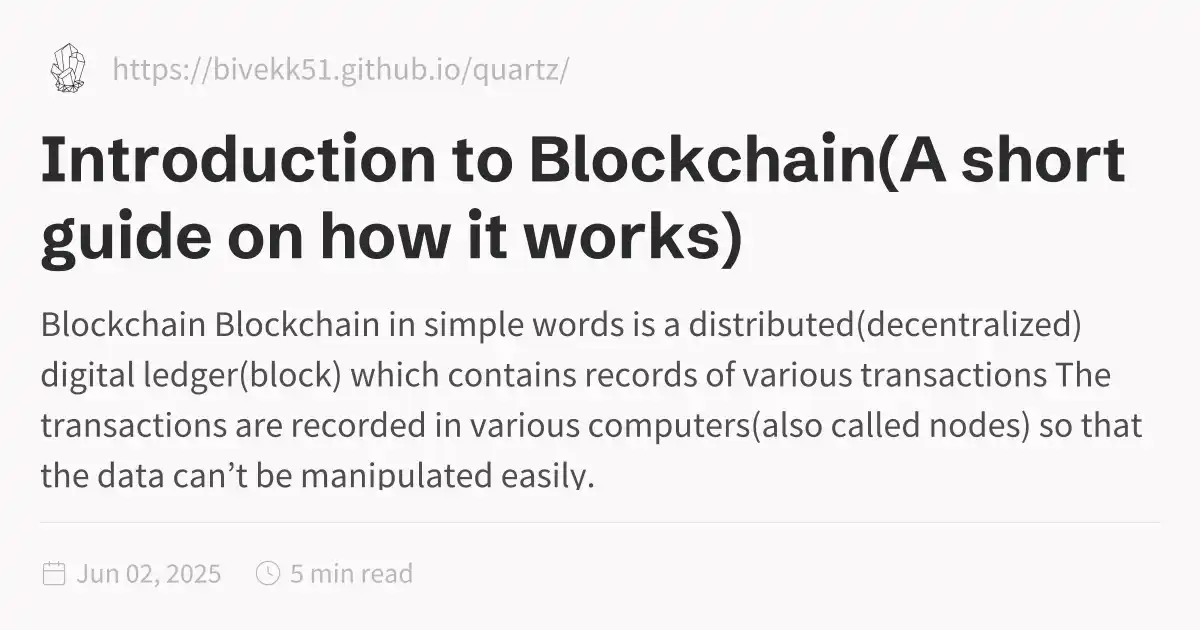
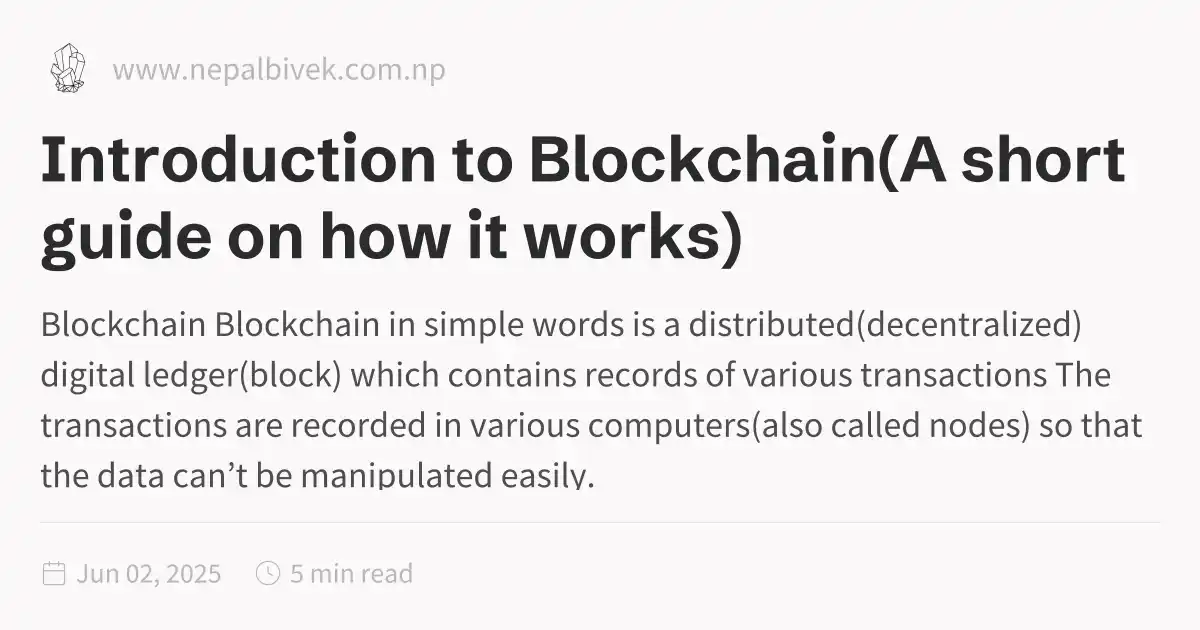
Updates

Changed region(s): [[0.0925, 0.0905, 0.4625, 0.1508]]

diff --git a/Introduction-to-Blockchain(A-short-guide-on-how-it-works).html b/Introduction-to-Blockchain(A-short-guide-on-how-it-works).html
@@ -1,5 +1,5 @@
 <!DOCTYPE html>
-<html lang="en"><head><title>Introduction to Blockchain(A short guide on how it works)</title><meta charset="utf-8"/><link rel="preconnect" href="https://fonts.googleapis.com"/><link rel="preconnect" href="https://fonts.gstatic.com"/><link rel="stylesheet" href="https://fonts.googleapis.com/css2?family=Schibsted Grotesk:wght@400;700&amp;family=Source Sans Pro:ital,wght@0,400;0,600;1,400;1,600&amp;family=IBM Plex Mono:wght@400;600&amp;display=swap"/><link rel="preconnect" href="https://cdnjs.cloudflare.com" crossorigin="anonymous"/><meta name="viewport" content="width=device-width, initial-scale=1.0"/><meta name="og:site_name" content="Bivek Learns"/><meta property="og:title" content="Introduction to Blockchain(A short guide on how it works)"/><meta property="og:type" content="website"/><meta name="twitter:card" content="summary_large_image"/><meta name="twitter:title" content="Introduction to Blockchain(A short guide on how it works)"/><meta name="twitter:description" content="Blockchain Blockchain in simple words is a distributed(decentralized) digital ledger(block) which contains records of various transactions The transactions are recorded in various computers(also called nodes) so that the data can’t be manipulated easily."/><meta property="og:description" content="Blockchain Blockchain in simple words is a distributed(decentralized) digital ledger(block) which contains records of various transactions The transactions are recorded in various computers(also called nodes) so that the data can’t be manipulated easily."/><meta property="og:image:alt" content="Blockchain Blockchain in simple words is a distributed(decentralized) digital ledger(block) which contains records of various transactions The transactions are recorded in various computers(also called nodes) so that the data can’t be manipulated easily."/><meta property="twitter:domain" content="https://bivekk51.github.io/quartz/"/><meta property="og:url" content="https://https//bivekk51.github.io/quartz/Introduction-to-Blockchain(A-short-guide-on-how-it-works)"/><meta property="twitter:url" content="https://https//bivekk51.github.io/quartz/Introduction-to-Blockchain(A-short-guide-on-how-it-works)"/><link rel="icon" href="./static/icon.png"/><meta name="description" content="Blockchain Blockchain in simple words is a distributed(decentralized) digital ledger(block) which contains records of various transactions The transactions are recorded in various computers(also called nodes) so that the data can’t be manipulated easily."/><meta name="generator" content="Quartz"/><link href="./index.css" rel="stylesheet" type="text/css" spa-preserve/><style>.expand-button {
+<html lang="en"><head><title>Introduction to Blockchain(A short guide on how it works)</title><meta charset="utf-8"/><link rel="preconnect" href="https://fonts.googleapis.com"/><link rel="preconnect" href="https://fonts.gstatic.com"/><link rel="stylesheet" href="https://fonts.googleapis.com/css2?family=Schibsted Grotesk:wght@400;700&amp;family=Source Sans Pro:ital,wght@0,400;0,600;1,400;1,600&amp;family=IBM Plex Mono:wght@400;600&amp;display=swap"/><link rel="preconnect" href="https://cdnjs.cloudflare.com" crossorigin="anonymous"/><meta name="viewport" content="width=device-width, initial-scale=1.0"/><meta name="og:site_name" content="Bivek Learns"/><meta property="og:title" content="Introduction to Blockchain(A short guide on how it works)"/><meta property="og:type" content="website"/><meta name="twitter:card" content="summary_large_image"/><meta name="twitter:title" content="Introduction to Blockchain(A short guide on how it works)"/><meta name="twitter:description" content="Blockchain Blockchain in simple words is a distributed(decentralized) digital ledger(block) which contains records of various transactions The transactions are recorded in various computers(also called nodes) so that the data can’t be manipulated easily."/><meta property="og:description" content="Blockchain Blockchain in simple words is a distributed(decentralized) digital ledger(block) which contains records of various transactions The transactions are recorded in various computers(also called nodes) so that the data can’t be manipulated easily."/><meta property="og:image:alt" content="Blockchain Blockchain in simple words is a distributed(decentralized) digital ledger(block) which contains records of various transactions The transactions are recorded in various computers(also called nodes) so that the data can’t be manipulated easily."/><meta property="twitter:domain" content="www.nepalbivek.com.np"/><meta property="og:url" content="https://www.nepalbivek.com.np/Introduction-to-Blockchain(A-short-guide-on-how-it-works)"/><meta property="twitter:url" content="https://www.nepalbivek.com.np/Introduction-to-Blockchain(A-short-guide-on-how-it-works)"/><link rel="icon" href="./static/icon.png"/><meta name="description" content="Blockchain Blockchain in simple words is a distributed(decentralized) digital ledger(block) which contains records of various transactions The transactions are recorded in various computers(also called nodes) so that the data can’t be manipulated easily."/><meta name="generator" content="Quartz"/><link href="./index.css" rel="stylesheet" type="text/css" spa-preserve/><style>.expand-button {
   position: absolute;
   display: flex;
   float: right;
@@ -116,7 +116,7 @@ pre:hover > .expand-button {
   padding: 0 12px;
   font-size: 14px;
 }
[2 lines of base64/hex data omitted]
 <ul>
 <li>Blockchain in simple words is a distributed(decentralized) digital ledger(block) which contains records of various transactions</li>
 <li>The transactions are recorded in various computers(also called nodes) so that the data can’t be manipulated easily.</li>

diff --git a/index.html b/index.html
@@ -1,5 +1,5 @@
 <!DOCTYPE html>
-<html lang="en"><head><title>Welcome to Quartz</title><meta charset="utf-8"/><link rel="preconnect" href="https://fonts.googleapis.com"/><link rel="preconnect" href="https://fonts.gstatic.com"/><link rel="stylesheet" href="https://fonts.googleapis.com/css2?family=Schibsted Grotesk:wght@400;700&amp;family=Source Sans Pro:ital,wght@0,400;0,600;1,400;1,600&amp;family=IBM Plex Mono:wght@400;600&amp;display=swap"/><link rel="preconnect" href="https://cdnjs.cloudflare.com" crossorigin="anonymous"/><meta name="viewport" content="width=device-width, initial-scale=1.0"/><meta name="og:site_name" content="Bivek Learns"/><meta property="og:title" content="Welcome to Quartz"/><meta property="og:type" content="website"/><meta name="twitter:card" content="summary_large_image"/><meta name="twitter:title" content="Welcome to Quartz"/><meta name="twitter:description" content="This is a blank Quartz installation. See the documentation for how to get started."/><meta property="og:description" content="This is a blank Quartz installation. See the documentation for how to get started."/><meta property="og:image:alt" content="This is a blank Quartz installation. See the documentation for how to get started."/><meta property="twitter:domain" content="https://bivekk51.github.io/quartz/"/><meta property="og:url" content="https://https//bivekk51.github.io/quartz/index"/><meta property="twitter:url" content="https://https//bivekk51.github.io/quartz/index"/><link rel="icon" href="./static/icon.png"/><meta name="description" content="This is a blank Quartz installation. See the documentation for how to get started."/><meta name="generator" content="Quartz"/><link href="./index.css" rel="stylesheet" type="text/css" spa-preserve/><style>.expand-button {
+<html lang="en"><head><title>Welcome to Quartz</title><meta charset="utf-8"/><link rel="preconnect" href="https://fonts.googleapis.com"/><link rel="preconnect" href="https://fonts.gstatic.com"/><link rel="stylesheet" href="https://fonts.googleapis.com/css2?family=Schibsted Grotesk:wght@400;700&amp;family=Source Sans Pro:ital,wght@0,400;0,600;1,400;1,600&amp;family=IBM Plex Mono:wght@400;600&amp;display=swap"/><link rel="preconnect" href="https://cdnjs.cloudflare.com" crossorigin="anonymous"/><meta name="viewport" content="width=device-width, initial-scale=1.0"/><meta name="og:site_name" content="Bivek Learns"/><meta property="og:title" content="Welcome to Quartz"/><meta property="og:type" content="website"/><meta name="twitter:card" content="summary_large_image"/><meta name="twitter:title" content="Welcome to Quartz"/><meta name="twitter:description" content="This is a blank Quartz installation. See the documentation for how to get started."/><meta property="og:description" content="This is a blank Quartz installation. See the documentation for how to get started."/><meta property="og:image:alt" content="This is a blank Quartz installation. See the documentation for how to get started."/><meta property="twitter:domain" content="www.nepalbivek.com.np"/><meta property="og:url" content="https://www.nepalbivek.com.np/index"/><meta property="twitter:url" content="https://www.nepalbivek.com.np/index"/><link rel="icon" href="./static/icon.png"/><meta name="description" content="This is a blank Quartz installation. See the documentation for how to get started."/><meta name="generator" content="Quartz"/><link href="./index.css" rel="stylesheet" type="text/css" spa-preserve/><style>.expand-button {
   position: absolute;
   display: flex;
   float: right;
@@ -116,7 +116,7 @@ pre:hover > .expand-button {
   padding: 0 12px;
   font-size: 14px;
 }
[2 lines of base64/hex data omitted]
 See the <a href="https://quartz.jzhao.xyz" class="external">documentation<svg aria-hidden="true" class="external-icon" style="max-width:0.8em;max-height:0.8em;" viewBox="0 0 512 512"><path d="M320 0H288V64h32 82.7L201.4 265.4 178.7 288 224 333.3l22.6-22.6L448 109.3V192v32h64V192 32 0H480 320zM32 32H0V64 480v32H32 456h32V480 352 320H424v32 96H64V96h96 32V32H160 32z"></path></svg></a> for how to get started.</p></article><hr/><div class="page-footer"></div></div><div class="right sidebar"><div class="graph"><h3>Graph View</h3><div class="graph-outer"><div class="graph-container" data-cfg="{&quot;drag&quot;:true,&quot;zoom&quot;:true,&quot;depth&quot;:1,&quot;scale&quot;:1.1,&quot;repelForce&quot;:0.5,&quot;centerForce&quot;:0.3,&quot;linkDistance&quot;:30,&quot;fontSize&quot;:0.6,&quot;opacityScale&quot;:1,&quot;showTags&quot;:true,&quot;removeTags&quot;:[],&quot;focusOnHover&quot;:false,&quot;enableRadial&quot;:false}"></div><button class="global-graph-icon" aria-label="Global Graph"><svg version="1.1" xmlns="http://www.w3.org/2000/svg" xmlns:xlink="http://www.w3.org/1999/xlink" x="0px" y="0px" viewBox="0 0 55 55" fill="currentColor" xml:space="preserve"><path d="M49,0c-3.309,0-6,2.691-6,6c0,1.035,0.263,2.009,0.726,2.86l-9.829,9.829C32.542,17.634,30.846,17,29,17
                 s-3.542,0.634-4.898,1.688l-7.669-7.669C16.785,10.424,17,9.74,17,9c0-2.206-1.794-4-4-4S9,6.794,9,9s1.794,4,4,4
                 c0.74,0,1.424-0.215,2.019-0.567l7.669,7.669C21.634,21.458,21,23.154,21,25s0.634,3.542,1.688,4.897L10.024,42.562

diff --git a/tags/index.html b/tags/index.html
@@ -1,5 +1,5 @@
 <!DOCTYPE html>
-<html lang="en"><head><title>Tag Index</title><meta charset="utf-8"/><link rel="preconnect" href="https://fonts.googleapis.com"/><link rel="preconnect" href="https://fonts.gstatic.com"/><link rel="stylesheet" href="https://fonts.googleapis.com/css2?family=Schibsted Grotesk:wght@400;700&amp;family=Source Sans Pro:ital,wght@0,400;0,600;1,400;1,600&amp;family=IBM Plex Mono:wght@400;600&amp;display=swap"/><link rel="preconnect" href="https://cdnjs.cloudflare.com" crossorigin="anonymous"/><meta name="viewport" content="width=device-width, initial-scale=1.0"/><meta name="og:site_name" content="Bivek Learns"/><meta property="og:title" content="Tag Index"/><meta property="og:type" content="website"/><meta name="twitter:card" content="summary_large_image"/><meta name="twitter:title" content="Tag Index"/><meta name="twitter:description" content="No description provided"/><meta property="og:description" content="No description provided"/><meta property="og:image:alt" content="No description provided"/><meta property="twitter:domain" content="https://bivekk51.github.io/quartz/"/><meta property="og:url" content="https://https//bivekk51.github.io/quartz/tags/index"/><meta property="twitter:url" content="https://https//bivekk51.github.io/quartz/tags/index"/><link rel="icon" href="../static/icon.png"/><meta name="description" content="No description provided"/><meta name="generator" content="Quartz"/><link href="../index.css" rel="stylesheet" type="text/css" spa-preserve/><style>.expand-button {
+<html lang="en"><head><title>Tag Index</title><meta charset="utf-8"/><link rel="preconnect" href="https://fonts.googleapis.com"/><link rel="preconnect" href="https://fonts.gstatic.com"/><link rel="stylesheet" href="https://fonts.googleapis.com/css2?family=Schibsted Grotesk:wght@400;700&amp;family=Source Sans Pro:ital,wght@0,400;0,600;1,400;1,600&amp;family=IBM Plex Mono:wght@400;600&amp;display=swap"/><link rel="preconnect" href="https://cdnjs.cloudflare.com" crossorigin="anonymous"/><meta name="viewport" content="width=device-width, initial-scale=1.0"/><meta name="og:site_name" content="Bivek Learns"/><meta property="og:title" content="Tag Index"/><meta property="og:type" content="website"/><meta name="twitter:card" content="summary_large_image"/><meta name="twitter:title" content="Tag Index"/><meta name="twitter:description" content="No description provided"/><meta property="og:description" content="No description provided"/><meta property="og:image:alt" content="No description provided"/><meta property="twitter:domain" content="www.nepalbivek.com.np"/><meta property="og:url" content="https://www.nepalbivek.com.np/tags/index"/><meta property="twitter:url" content="https://www.nepalbivek.com.np/tags/index"/><link rel="icon" href="../static/icon.png"/><meta name="description" content="No description provided"/><meta name="generator" content="Quartz"/><link href="../index.css" rel="stylesheet" type="text/css" spa-preserve/><style>.expand-button {
   position: absolute;
   display: flex;
   float: right;
@@ -116,6 +116,6 @@ pre:hover > .expand-button {
   padding: 0 12px;
   font-size: 14px;
 }
[2 lines of base64/hex data omitted]
 </script><script type="module">function f(i,e){if(!i)return;function r(o){o.target===this&&(o.preventDefault(),o.stopPropagation(),e())}function t(o){o.key.startsWith("Esc")&&(o.preventDefault(),e())}i?.addEventListener("click",r),window.addCleanup(()=>i?.removeEventListener("click",r)),document.addEventListener("keydown",t),window.addCleanup(()=>document.removeEventListener("keydown",t))}function y(i){for(;i.firstChild;)i.removeChild(i.firstChild)}var h=class{constructor(e,r){this.container=e;this.content=r;this.setupEventListeners(),this.setupNavigationControls(),this.resetTransform()}isDragging=!1;startPan={x:0,y:0};currentPan={x:0,y:0};scale=1;MIN_SCALE=.5;MAX_SCALE=3;cleanups=[];setupEventListeners(){let e=this.onMouseDown.bind(this),r=this.onMouseMove.bind(this),t=this.onMouseUp.bind(this),o=this.resetTransform.bind(this);this.container.addEventListener("mousedown",e),document.addEventListener("mousemove",r),document.addEventListener("mouseup",t),window.addEventListener("resize",o),this.cleanups.push(()=>this.container.removeEventListener("mousedown",e),()=>document.removeEventListener("mousemove",r),()=>document.removeEventListener("mouseup",t),()=>window.removeEventListener("resize",o))}cleanup(){for(let e of this.cleanups)e()}setupNavigationControls(){let e=document.createElement("div");e.className="mermaid-controls";let r=this.createButton("+",()=>this.zoom(.1)),t=this.createButton("-",()=>this.zoom(-.1)),o=this.createButton("Reset",()=>this.resetTransform());e.appendChild(t),e.appendChild(o),e.appendChild(r),this.container.appendChild(e)}createButton(e,r){let t=document.createElement("button");return t.textContent=e,t.className="mermaid-control-button",t.addEventListener("click",r),window.addCleanup(()=>t.removeEventListener("click",r)),t}onMouseDown(e){e.button===0&&(this.isDragging=!0,this.startPan={x:e.clientX-this.currentPan.x,y:e.clientY-this.currentPan.y},this.container.style.cursor="grabbing")}onMouseMove(e){this.isDragging&&(e.preventDefault(),this.currentPan={x:e.clientX-this.startPan.x,y:e.clientY-this.startPan.y},this.updateTransform())}onMouseUp(){this.isDragging=!1,this.container.style.cursor="grab"}zoom(e){let r=Math.min(Math.max(this.scale+e,this.MIN_SCALE),this.MAX_SCALE),t=this.content.getBoundingClientRect(),o=t.width/2,n=t.height/2,c=r-this.scale;this.currentPan.x-=o*c,this.currentPan.y-=n*c,this.scale=r,this.updateTransform()}updateTransform(){this.content.style.transform=`translate(${this.currentPan.x}px, ${this.currentPan.y}px) scale(${this.scale})`}resetTransform(){this.scale=1;let e=this.content.querySelector("svg");this.currentPan={x:e.getBoundingClientRect().width/2,y:e.getBoundingClientRect().height/2},this.updateTransform()}},C=["--secondary","--tertiary","--gray","--light","--lightgray","--highlight","--dark","--darkgray","--codeFont"],E;document.addEventListener("nav",async()=>{let e=document.querySelector(".center").querySelectorAll("code.mermaid");if(e.length===0)return;E||=await import("https://cdnjs.cloudflare.com/ajax/libs/mermaid/11.4.0/mermaid.esm.min.mjs");let r=E.default,t=new WeakMap;for(let n of e)t.set(n,n.innerText);async function o(){for(let s of e){s.removeAttribute("data-processed");let a=t.get(s);a&&(s.innerHTML=a)}let n=C.reduce((s,a)=>(s[a]=window.getComputedStyle(document.documentElement).getPropertyValue(a),s),{}),c=document.documentElement.getAttribute("saved-theme")==="dark";r.initialize({startOnLoad:!1,securityLevel:"loose",theme:c?"dark":"base",themeVariables:{fontFamily:n["--codeFont"],primaryColor:n["--light"],primaryTextColor:n["--darkgray"],primaryBorderColor:n["--tertiary"],lineColor:n["--darkgray"],secondaryColor:n["--secondary"],tertiaryColor:n["--tertiary"],clusterBkg:n["--light"],edgeLabelBackground:n["--highlight"]}}),await r.run({nodes:e})}await o(),document.addEventListener("themechange",o),window.addCleanup(()=>document.removeEventListener("themechange",o));for(let n=0;n<e.length;n++){let v=function(){let g=l.querySelector("#mermaid-space"),m=l.querySelector(".mermaid-content");if(!m)return;y(m);let w=c.querySelector("svg").cloneNode(!0);m.appendChild(w),l.classList.add("active"),g.style.cursor="grab",u=new h(g,m)},M=function(){l.classList.remove("active"),u?.cleanup(),u=null},c=e[n],s=c.parentElement,a=s.querySelector(".clipboard-button"),d=s.querySelector(".expand-button"),p=window.getComputedStyle(a),L=a.offsetWidth+parseFloat(p.marginLeft||"0")+parseFloat(p.marginRight||"0");d.style.right=`calc(${L}px + 0.3rem)`,s.prepend(d);let l=s.querySelector("#mermaid-container");if(!l)return;let u=null;d.addEventListener("click",v),f(l,M),window.addCleanup(()=>{u?.cleanup(),d.removeEventListener("click",v)})}});
 </script><script src="https://cdn.jsdelivr.net/npm/katex@0.16.11/dist/contrib/copy-tex.min.js" type="application/javascript"></script><script src="../postscript.js" type="module"></script></html>

diff --git a/404.html b/404.html
@@ -1,5 +1,5 @@
 <!DOCTYPE html>
-<html lang="en"><head><title>Not Found</title><meta charset="utf-8"/><link rel="preconnect" href="https://fonts.googleapis.com"/><link rel="preconnect" href="https://fonts.gstatic.com"/><link rel="stylesheet" href="https://fonts.googleapis.com/css2?family=Schibsted Grotesk:wght@400;700&amp;family=Source Sans Pro:ital,wght@0,400;0,600;1,400;1,600&amp;family=IBM Plex Mono:wght@400;600&amp;display=swap"/><link rel="preconnect" href="https://cdnjs.cloudflare.com" crossorigin="anonymous"/><meta name="viewport" content="width=device-width, initial-scale=1.0"/><meta name="og:site_name" content="Bivek Learns"/><meta property="og:title" content="Not Found"/><meta property="og:type" content="website"/><meta name="twitter:card" content="summary_large_image"/><meta name="twitter:title" content="Not Found"/><meta name="twitter:description" content="Not Found"/><meta property="og:description" content="Not Found"/><meta property="og:image:alt" content="Not Found"/><meta property="twitter:domain" content="https://bivekk51.github.io/quartz/"/><meta property="og:url" content="https://https//bivekk51.github.io/quartz/"/><meta property="twitter:url" content="https://https//bivekk51.github.io/quartz/"/><link rel="icon" href="//bivekk51.github.io/quartz/static/icon.png"/><meta name="description" content="Not Found"/><meta name="generator" content="Quartz"/><link href="//bivekk51.github.io/quartz/index.css" rel="stylesheet" type="text/css" spa-preserve/><style>.expand-button {
+<html lang="en"><head><title>Not Found</title><meta charset="utf-8"/><link rel="preconnect" href="https://fonts.googleapis.com"/><link rel="preconnect" href="https://fonts.gstatic.com"/><link rel="stylesheet" href="https://fonts.googleapis.com/css2?family=Schibsted Grotesk:wght@400;700&amp;family=Source Sans Pro:ital,wght@0,400;0,600;1,400;1,600&amp;family=IBM Plex Mono:wght@400;600&amp;display=swap"/><link rel="preconnect" href="https://cdnjs.cloudflare.com" crossorigin="anonymous"/><meta name="viewport" content="width=device-width, initial-scale=1.0"/><meta name="og:site_name" content="Bivek Learns"/><meta property="og:title" content="Not Found"/><meta property="og:type" content="website"/><meta name="twitter:card" content="summary_large_image"/><meta name="twitter:title" content="Not Found"/><meta name="twitter:description" content="Not Found"/><meta property="og:description" content="Not Found"/><meta property="og:image:alt" content="Not Found"/><meta property="twitter:domain" content="www.nepalbivek.com.np"/><meta property="og:url" content="https://www.nepalbivek.com.np/"/><meta property="twitter:url" content="https://www.nepalbivek.com.np/"/><link rel="icon" href="/static/icon.png"/><meta name="description" content="Not Found"/><meta name="generator" content="Quartz"/><link href="/index.css" rel="stylesheet" type="text/css" spa-preserve/><style>.expand-button {
   position: absolute;
   display: flex;
   float: right;
@@ -116,6 +116,6 @@ pre:hover > .expand-button {
   padding: 0 12px;
   font-size: 14px;
 }
[2 lines of base64/hex data omitted]
 </script><script type="module">function f(i,e){if(!i)return;function r(o){o.target===this&&(o.preventDefault(),o.stopPropagation(),e())}function t(o){o.key.startsWith("Esc")&&(o.preventDefault(),e())}i?.addEventListener("click",r),window.addCleanup(()=>i?.removeEventListener("click",r)),document.addEventListener("keydown",t),window.addCleanup(()=>document.removeEventListener("keydown",t))}function y(i){for(;i.firstChild;)i.removeChild(i.firstChild)}var h=class{constructor(e,r){this.container=e;this.content=r;this.setupEventListeners(),this.setupNavigationControls(),this.resetTransform()}isDragging=!1;startPan={x:0,y:0};currentPan={x:0,y:0};scale=1;MIN_SCALE=.5;MAX_SCALE=3;cleanups=[];setupEventListeners(){let e=this.onMouseDown.bind(this),r=this.onMouseMove.bind(this),t=this.onMouseUp.bind(this),o=this.resetTransform.bind(this);this.container.addEventListener("mousedown",e),document.addEventListener("mousemove",r),document.addEventListener("mouseup",t),window.addEventListener("resize",o),this.cleanups.push(()=>this.container.removeEventListener("mousedown",e),()=>document.removeEventListener("mousemove",r),()=>document.removeEventListener("mouseup",t),()=>window.removeEventListener("resize",o))}cleanup(){for(let e of this.cleanups)e()}setupNavigationControls(){let e=document.createElement("div");e.className="mermaid-controls";let r=this.createButton("+",()=>this.zoom(.1)),t=this.createButton("-",()=>this.zoom(-.1)),o=this.createButton("Reset",()=>this.resetTransform());e.appendChild(t),e.appendChild(o),e.appendChild(r),this.container.appendChild(e)}createButton(e,r){let t=document.createElement("button");return t.textContent=e,t.className="mermaid-control-button",t.addEventListener("click",r),window.addCleanup(()=>t.removeEventListener("click",r)),t}onMouseDown(e){e.button===0&&(this.isDragging=!0,this.startPan={x:e.clientX-this.currentPan.x,y:e.clientY-this.currentPan.y},this.container.style.cursor="grabbing")}onMouseMove(e){this.isDragging&&(e.preventDefault(),this.currentPan={x:e.clientX-this.startPan.x,y:e.clientY-this.startPan.y},this.updateTransform())}onMouseUp(){this.isDragging=!1,this.container.style.cursor="grab"}zoom(e){let r=Math.min(Math.max(this.scale+e,this.MIN_SCALE),this.MAX_SCALE),t=this.content.getBoundingClientRect(),o=t.width/2,n=t.height/2,c=r-this.scale;this.currentPan.x-=o*c,this.currentPan.y-=n*c,this.scale=r,this.updateTransform()}updateTransform(){this.content.style.transform=`translate(${this.currentPan.x}px, ${this.currentPan.y}px) scale(${this.scale})`}resetTransform(){this.scale=1;let e=this.content.querySelector("svg");this.currentPan={x:e.getBoundingClientRect().width/2,y:e.getBoundingClientRect().height/2},this.updateTransform()}},C=["--secondary","--tertiary","--gray","--light","--lightgray","--highlight","--dark","--darkgray","--codeFont"],E;document.addEventListener("nav",async()=>{let e=document.querySelector(".center").querySelectorAll("code.mermaid");if(e.length===0)return;E||=await import("https://cdnjs.cloudflare.com/ajax/libs/mermaid/11.4.0/mermaid.esm.min.mjs");let r=E.default,t=new WeakMap;for(let n of e)t.set(n,n.innerText);async function o(){for(let s of e){s.removeAttribute("data-processed");let a=t.get(s);a&&(s.innerHTML=a)}let n=C.reduce((s,a)=>(s[a]=window.getComputedStyle(document.documentElement).getPropertyValue(a),s),{}),c=document.documentElement.getAttribute("saved-theme")==="dark";r.initialize({startOnLoad:!1,securityLevel:"loose",theme:c?"dark":"base",themeVariables:{fontFamily:n["--codeFont"],primaryColor:n["--light"],primaryTextColor:n["--darkgray"],primaryBorderColor:n["--tertiary"],lineColor:n["--darkgray"],secondaryColor:n["--secondary"],tertiaryColor:n["--tertiary"],clusterBkg:n["--light"],edgeLabelBackground:n["--highlight"]}}),await r.run({nodes:e})}await o(),document.addEventListener("themechange",o),window.addCleanup(()=>document.removeEventListener("themechange",o));for(let n=0;n<e.length;n++){let v=function(){let g=l.querySelector("#mermaid-space"),m=l.querySelector(".mermaid-content");if(!m)return;y(m);let w=c.querySelector("svg").cloneNode(!0);m.appendChild(w),l.classList.add("active"),g.style.cursor="grab",u=new h(g,m)},M=function(){l.classList.remove("active"),u?.cleanup(),u=null},c=e[n],s=c.parentElement,a=s.querySelector(".clipboard-button"),d=s.querySelector(".expand-button"),p=window.getComputedStyle(a),L=a.offsetWidth+parseFloat(p.marginLeft||"0")+parseFloat(p.marginRight||"0");d.style.right=`calc(${L}px + 0.3rem)`,s.prepend(d);let l=s.querySelector("#mermaid-container");if(!l)return;let u=null;d.addEventListener("click",v),f(l,M),window.addCleanup(()=>{u?.cleanup(),d.removeEventListener("click",v)})}});
-</script><script src="https://cdn.jsdelivr.net/npm/katex@0.16.11/dist/contrib/copy-tex.min.js" type="application/javascript"></script><script src="//bivekk51.github.io/quartz/postscript.js" type="module"></script></html>
+</script><script src="https://cdn.jsdelivr.net/npm/katex@0.16.11/dist/contrib/copy-tex.min.js" type="application/javascript"></script><script src="/postscript.js" type="module"></script></html>
